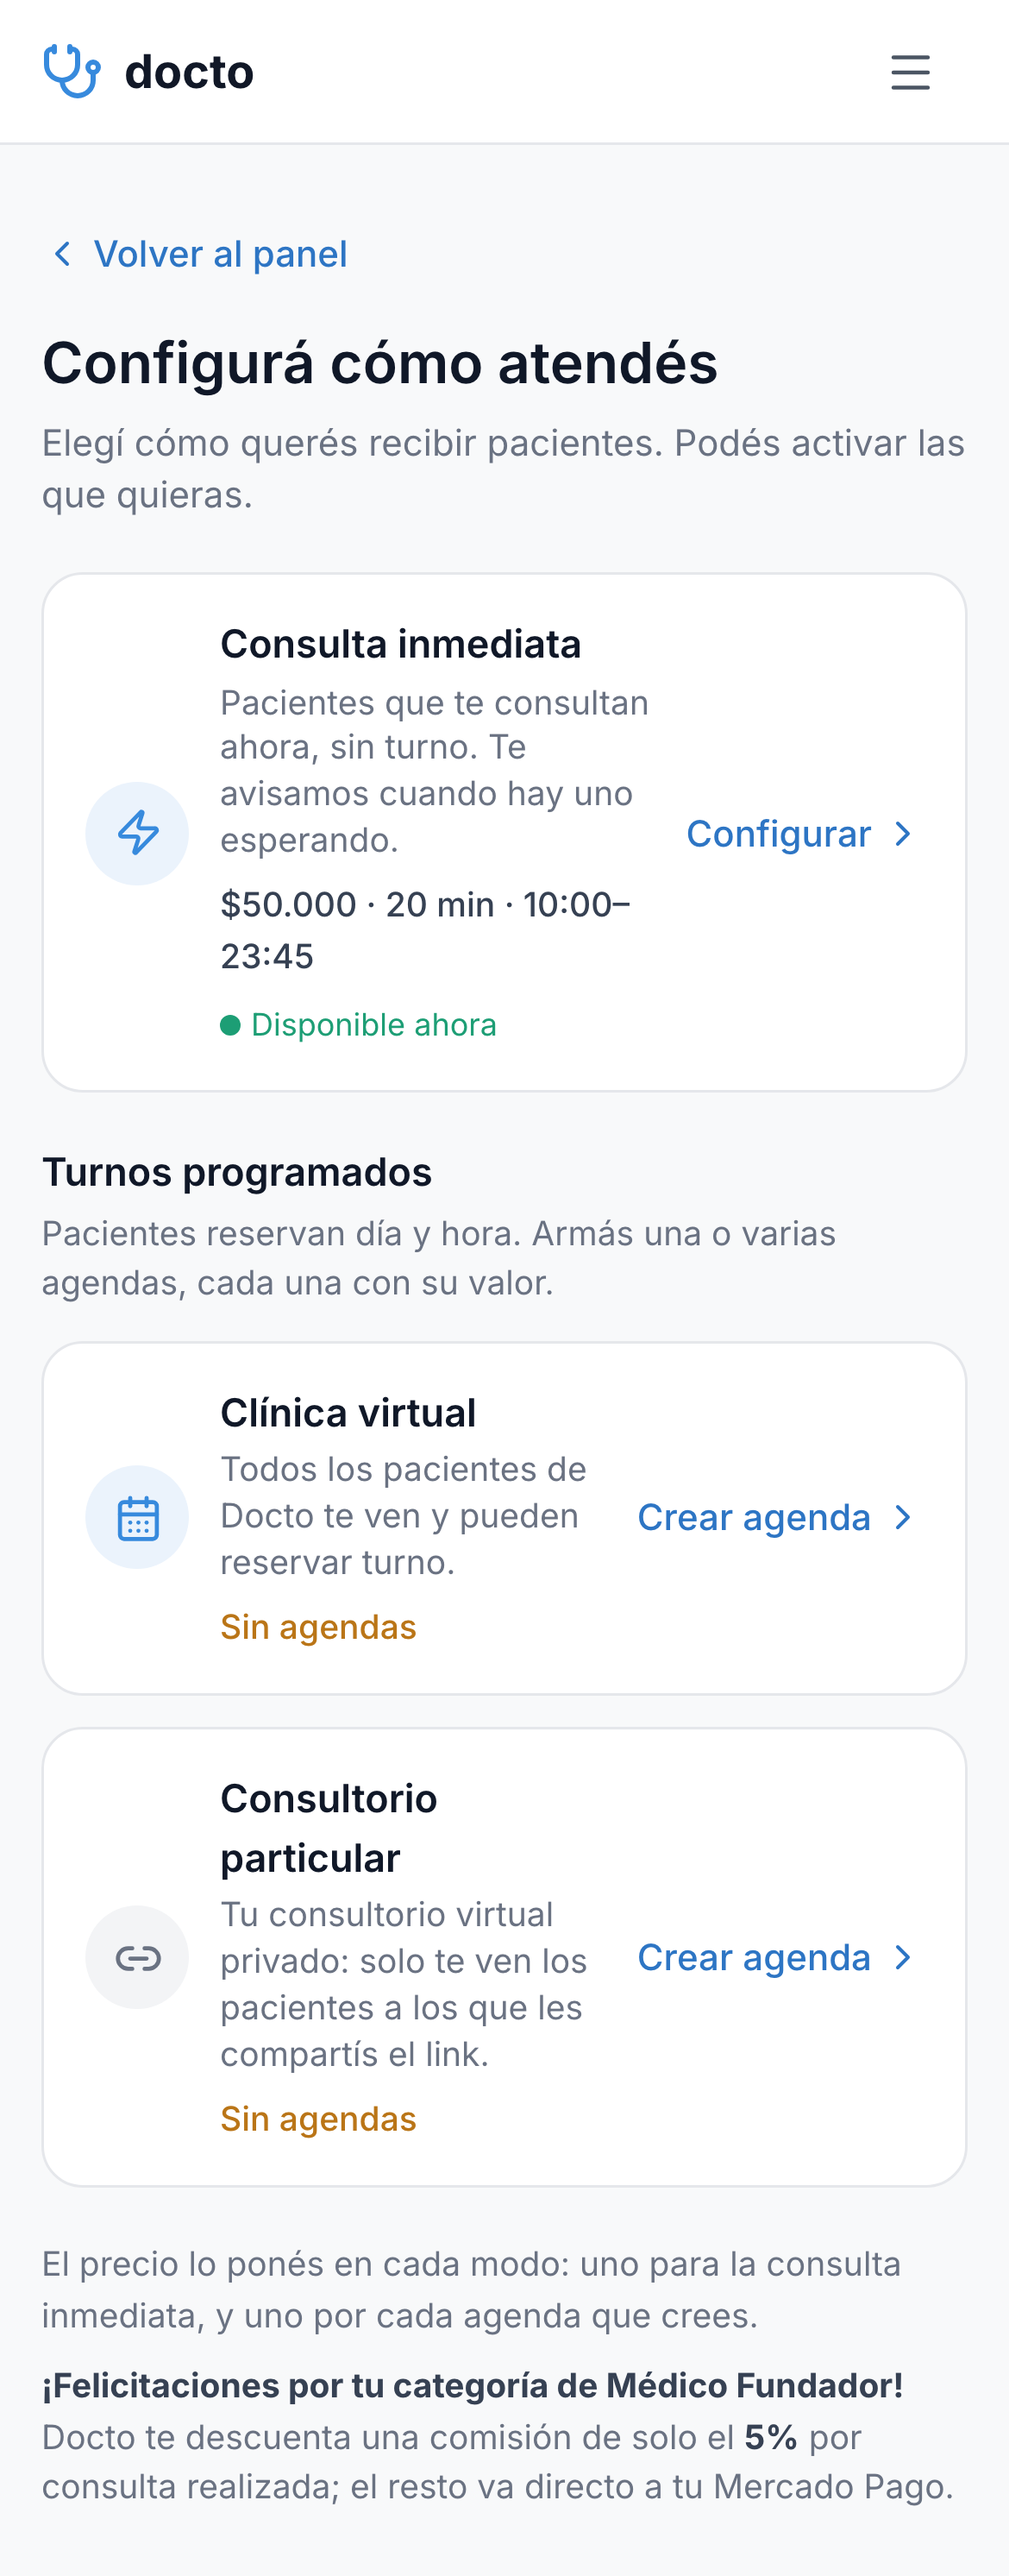
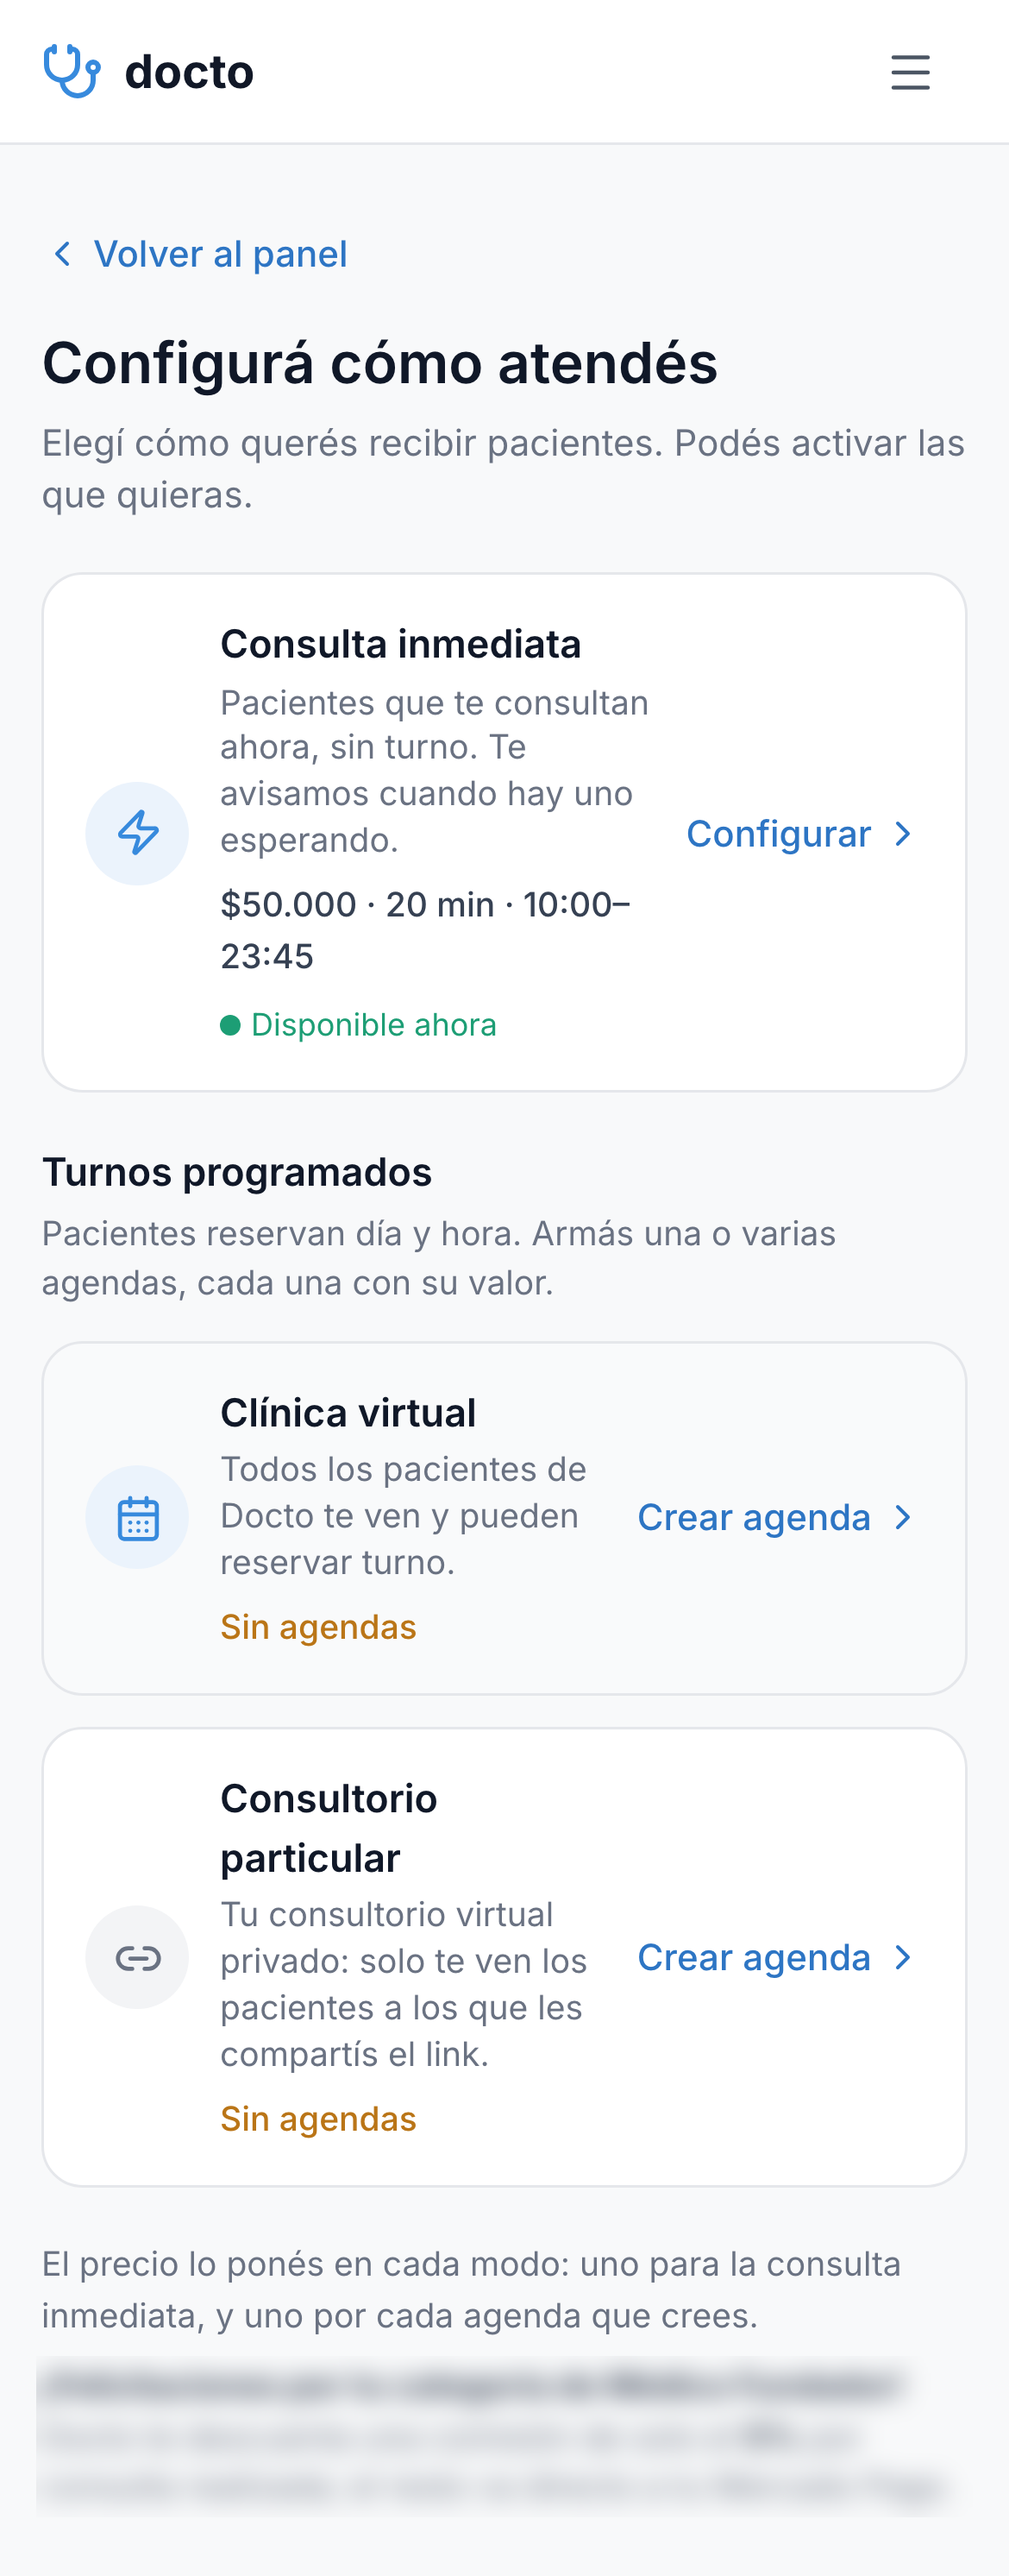
fix(video): pantallas limpias de verdad y el porcentaje de comisión difuminado
Pedido de Diego: no mostrar pantallas desprolijas y que no se lea el porcentaje.

Las pantallas desprolijas NO se taparon, se limpiaron en origen: se cerraron las
consultas y turnos de prueba sin documentar (el cartel naranja de 'consultas sin
documentación entregada') y se desactivaron las 40 agendas de prueba acumuladas.
Después se volvió a capturar. Lo que se ve ahora es una cuenta prolija de verdad.

El porcentaje de comisión sí va difuminado, con las coordenadas del elemento
medidas en el navegador: queda una zona borrosa suave, no un rectángulo tapado,
así que la pantalla sigue pareciendo natural. Es un dato que depende de la
categoría de cada profesional y no puede ir en un video para todos.

Además: capturas largas recortadas a lo que importa (el panel medía 5640 px) y
una captura nueva del panel como apertura del video 1.

Changed region(s): [[0.0308, 0.9035, 0.8923, 0.997], [0.8923, 0.9658, 0.9231, 0.997]]

diff --git a/docs/video-profesional/INSTRUCCIONES-IA.md b/docs/video-profesional/INSTRUCCIONES-IA.md
@@ -12,7 +12,7 @@ Docto, una plataforma argentina de telemedicina. El público son médicos, mucho
 de ellos poco familiarizados con tecnología. Tono: claro, cercano, tuteo
 argentino (vos, tenés, podés). Sin jerga técnica.
 
-TE ENTREGO DOS GUIONES Y ONCE IMÁGENES. Los guiones son:
+TE ENTREGO DOS GUIONES Y DOCE IMÁGENES. Los guiones son:
   GUION-1-CONFIGURAR.md  → video 1
   GUION-2-ATENDER.md     → video 2
 Las imágenes están en la carpeta capturas/.
@@ -31,38 +31,25 @@ que el guion nombra para ese bloque.
 
 === REGLA NÚMERO DOS: NO INVENTES PANTALLAS ===
 
-Estas once imágenes son fotos reales del producto. NO las recrees, NO las
+Estas doce imágenes son fotos reales del producto. NO las recrees, NO las
 redibujes, NO generes pantallas parecidas, NO uses capturas de stock ni mockups
-de teléfonos genéricos. Si una pantalla no está entre las once, ese momento se
+de teléfonos genéricos. Si una pantalla no está entre las doce, ese momento se
 narra sin imagen o con la imagen anterior en pantalla.
 
 Tampoco cambies los textos que se ven adentro de las imágenes. Son los textos
 reales del producto y el profesional los va a buscar tal cual en su teléfono.
 
-=== REGLA NÚMERO TRES: TAPAR EL PORCENTAJE DE COMISIÓN ===
+=== REGLA NÚMERO TRES: LAS IMÁGENES YA VIENEN TRATADAS ===
 
-Dos imágenes muestran al pie un bloque que dice:
+En dos de las imágenes vas a ver una zona con un desenfoque suave, al pie de la
+pantalla. Está puesto a propósito: ahí había un dato que no corresponde mostrar
+porque no es igual para todos los profesionales.
 
-  "¡Felicitaciones por tu categoría de Médico Fundador! Docto te descuenta una
-  comisión de solo el 5% por consulta realizada; el resto va directo a tu
-  Mercado Pago."
+NO la quites, NO intentes reconstruir lo que dice, NO la reemplaces, NO la
+menciones en la narración. Tratala como parte de la imagen.
 
-Las dos imágenes son:
-  capturas/v1-01-hub-como-atendes.png       → el bloque está al pie, abajo de todo
-  capturas/v1-04-consultorio-particular.png → el bloque está dentro de la tarjeta
-                                               del link, debajo del texto gris
-
-EN LAS DOS, TAPÁ ESE BLOQUE COMPLETO. Usá un rectángulo del mismo color de fondo
-de la pantalla (gris muy claro, casi blanco) para que parezca que no está, o
-recortá la imagen por encima de ese bloque.
-
-Por qué: ese porcentaje NO es el mismo para todos los profesionales, depende de
-la categoría de cada uno. La cuenta con la que se tomaron las fotos tiene una
-condición especial. Si queda a la vista, el video le promete a todos un número
-que puede no ser el suyo.
-
-No lo reemplaces por otro número ni lo menciones en la narración. Simplemente no
-se habla de comisiones en estos videos.
+Tampoco apliques filtros, correcciones de color, nitidez ni mejoras automáticas
+a ninguna imagen: están tal como se necesitan.
 
 === CÓMO ANIMAR ===
 
@@ -111,15 +98,16 @@ recrees. Esas tomas se van a filmar aparte de un teléfono real.
 
 ## Para vos, Diego, antes de mandarlo
 
-**Las once imágenes que van adjuntas:**
+**Las doce imágenes que van adjuntas:**
 
 | Archivo | Qué muestra | Va en |
 |---|---|---|
-| `v1-01-hub-como-atendes.png` | Las tres formas de atender | Video 1, bloque 1 · **tapar comisión** |
+| `v2-00-panel-del-profesional.png` | El panel, de donde arranca todo | Video 1, bloque 1 (apertura) |
+| `v1-01-hub-como-atendes.png` | Las tres formas de atender | Video 1, bloque 1 |
 | `v1-02-configurar-consulta-inmediata.png` | Precio, duración, horario, interruptor | Video 1, bloque 2 |
-| `v1-03-agenda.png` | El calendario de la agenda | Video 1, bloque 3 · ver aviso abajo |
-| `v1-04-consultorio-particular.png` | El link privado, Copiar, WhatsApp | Video 1, bloque 4 · **tapar comisión** |
-| `v2-01-panel-paciente-esperando.png` | El panel con el aviso | Video 2, bloque 1 · ver aviso abajo |
+| `v1-03-agenda.png` | El calendario de la agenda | Video 1, bloque 3 |
+| `v1-04-consultorio-particular.png` | El link privado, Copiar, WhatsApp | Video 1, bloque 4 |
+| `v2-01-panel-paciente-esperando.png` | El panel con el paciente esperando | Video 2, bloque 1 |
 | `v2-02-paciente-sala-espera.png` | El paciente esperando ser aceptado | Video 2, bloque 3 |
 | `v2-03-esperando-pago.png` | "Esperando pago" con el reloj | Video 2, bloque 2 |
 | `v2-04-paciente-falta-pagar.png` | "Falta un paso: pagá tu consulta" | Video 2, bloque 3 |
@@ -127,12 +115,15 @@ recrees. Esas tomas se van a filmar aparte de un teléfono real.
 | `v2-06-consultorio-virtual.png` | El consultorio con las tres pestañas | Video 2, bloque 5 |
 | `v2-07-documentar.png` | Documentar con "Volver a la llamada" | Video 2, bloque 6 |
 
-**Dos imágenes que convendría volver a sacar antes de producir:**
+**Lo que ya se resolvió sobre las imágenes:**
 
-- `v1-03-agenda.png` muestra cuarenta agendas de prueba acumuladas. Se entiende
-  poco. Con la cuenta de prueba limpia queda mucho mejor.
-- `v2-01-panel-paciente-esperando.png` tiene arriba un bloque naranja que dice
-  "5 consultas sin documentación entregada", que es basura de las pruebas. En un
-  video institucional queda mal.
-
-Las dos las puedo volver a capturar limpias cuando quieras, en diez minutos.
+- **El porcentaje de comisión está difuminado** en las dos pantallas donde
+  aparecía. Se ve una zona borrosa suave, no un rectángulo tapado: la pantalla
+  sigue pareciendo natural. La IA tiene la orden de no tocarlo.
+- **Las pantallas desprolijas se limpiaron en serio**, no se taparon. El cartel
+  naranja de "consultas sin documentación entregada" y las cuarenta agendas de
+  prueba acumuladas ya no están porque se limpiaron los datos viejos de la
+  cuenta de prueba, y las pantallas se volvieron a capturar. Lo que se ve ahora
+  es una cuenta prolija de verdad.
+- **Las capturas largas están recortadas** a la parte que importa: el panel y la
+  agenda medían más de cinco pantallas de alto.

diff --git a/docs/video-profesional/GUION-1-CONFIGURAR.md b/docs/video-profesional/GUION-1-CONFIGURAR.md
@@ -12,7 +12,7 @@
 
 ## Bloque 1 · De dónde sale todo (15 s)
 
-**Imagen:** `capturas/v1-01-hub-como-atendes.png`
+**Imágenes:** `capturas/v2-00-panel-del-profesional.png` (2 s de apertura) y después `capturas/v1-01-hub-como-atendes.png`
 
 **Narración:**
 > Todo lo que define cómo trabajás está en un solo lugar. Desde tu panel, tocá **Configurá cómo atendés**.
@@ -92,7 +92,7 @@
 ## Notas de producción
 
 - **Todas las capturas son reales**, tomadas de `www.docto.com.ar` con una cuenta de prueba, en pantalla de iPhone. Ninguna está retocada ni recreada.
-- **La comisión que muestra la pantalla es la de cada profesional.** En las capturas dice 5% porque la cuenta de prueba es Médico Fundador. Si el video es para todos, conviene tapar ese bloque o aclarar en voz que el porcentaje depende de la categoría.
+- **El porcentaje de comisión ya está difuminado** en las dos capturas donde aparecía. Ese número depende de la categoría de cada profesional, así que no puede mostrarse en un video para todos. No hace falta hacer nada más.
 - **No filmar una cuenta real.** El panel muestra ingresos, nombres de pacientes y turnos. Usar siempre la cuenta de prueba.
-- **Faltan tres capturas**: el formulario de crear agenda con los campos llenos, la pantalla de Nova armando una agenda por voz, y una agenda limpia (la que se capturó tiene 40 agendas de prueba acumuladas y no se entiende).
+- **Faltan dos capturas**: el formulario de crear agenda con los campos llenos y la pantalla de Nova armando una agenda por voz.
 - **NO existe una captura de la pantalla de Perfil.** Se tomó una y se borró: mostraba el celular personal y el número de cuenta de Mercado Pago. Esa pantalla no se filma nunca con una cuenta que tenga datos cargados.
